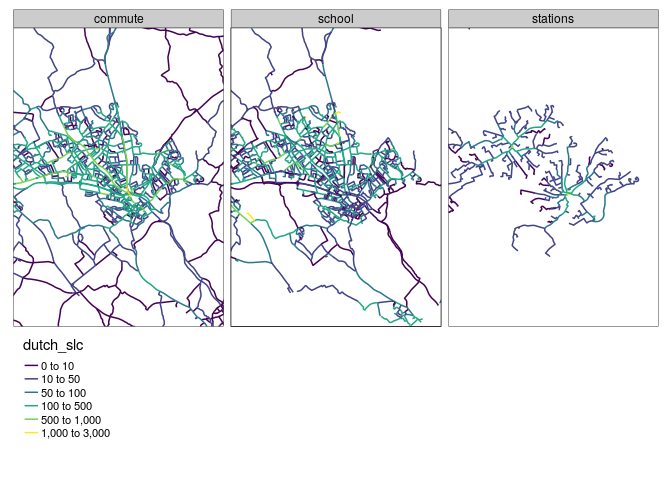
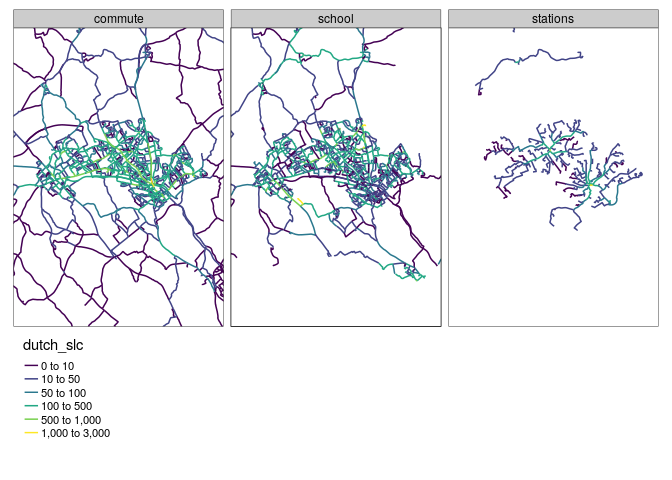
Complete report 3
Close #22 and #20

diff --git a/report3.md b/report3.md
@@ -1,13 +1,7 @@
 STARS Phase 3 Report: Evidence to support long-term network plans
 ================
-Joey Talbot & Robin Lovelace
+Robin Lovelace & Joey Talbot
 December 2020
-
-
-
-
-
-
 
 <!-- # Introduction -->
 
@@ -17,13 +11,35 @@ In Phase 2 of the project we developed a method to estimate cycling
 potential to stations based on commuting data. In this phase we have
 added two additional layers to this result:
 
--   Cycling potential for single stage travel to school journeys
+-   Cycling potential for single stage travel to school journeys,
+    documented in (Goodman et al. 2019)
 -   Cycling potential to work for single stage commutes
 
+Results from the longer-term ‘Go Dutch’ scenario from the Propensity to
+Cycle Tool, which represents a future in which people cycle as much as
+the Dutch to accounting for distance and hilliness (Lovelace et al.
+2017), are presented in this report, matching the long-term ambitions in
+Luton’s Local Cycling and Walking Infrastructure Plan. Go Dutch was also
+deemed an appropriate scenario because, as described in the emerging
+Luton Transport Strategy, 50% of journeys to work are less than 5
+kilometres but about 55% of these are by car.
+
 Summary statistics of the route network data, showing the relative
-importance of commute, school and travel to stations trips for potential
-(under the Go Dutch scenario) and current (for commute and school
-travel) is shown in Table <a href="#tab:sumtabthousands">1.1</a>.
+importance and potential of commute, school and travel-to-rail trips,
+are shown in Table <a href="#tab:sumtabthousands">1.1</a>. Note that the
+figures for cycling to rail stations only include commuter journeys to
+rail stations. Across the East of England, in 2018/2019 only 13% of
+trips were for the purpose of commuting according to the [National
+Travel
+Survey](https://www.gov.uk/government/statistical-data-sets/nts04-purpose-of-trips),
+thus total cycle-to-rail potential will be higher.
+
+The headline comparison between the ‘Go Dutch’ cycling potentials for
+travel to work, school and rail stations, and the 2011 data on travel to
+work and school, suggests that there is an opportunity to significantly
+increase the number of cycle trips. The ‘Go Dutch’ cycling potentials in
+the three Local Authorities are an order of magnitude higher than the
+existing (2011) numbers of cycle journeys.
 
 | lad\_name            | commute | school | stations | all | commute\_2011 | school\_2011 |
 |:---------------------|--------:|-------:|---------:|----:|--------------:|-------------:|
@@ -31,21 +47,34 @@ travel) is shown in Table <a href="#tab:sumtabthousands">1.1</a>.
 | Central Bedfordshire |     242 |    314 |       26 | 583 |            28 |            9 |
 | Luton                |     413 |    293 |       34 | 740 |            30 |            4 |
 
-Table 1.1: Relative importance if different trip purposes for cycling
-potential in local authorities in Bedfordshire. Cycling potential and
-current (2011 data, a proxy for current cycling levels) cycling levels
-is measured in thousand km cycled on the network for a typical
-work/school day (one way).
+Table 1.1: Relative importance of different trip purposes for cycling
+potential in local authorities in Bedfordshire. Cycling potential under
+a ‘Go Dutch’ scenario and current (2011 data, a proxy for current
+cycling levels) cycling levels are measured in thousand km cycled on the
+network for a typical work/school day (one way).
 
 The distinctive spatial distribution of each network in Luton is shown
-in Figure <a href="#fig:distribution">1.1</a>.[1]
+in Figure <a href="#fig:distribution">1.1</a>.[1] The focus of this
+report is on the Luton/Dunstable Urban Area because, whilst none of the
+three Councils have an adopted LCWIP, Luton has started the preparing
+one and formally consulted the Luton and Dunstable Cycle Forum and the
+Central Bedfordshire and Luton Joint Local Access Forum on a draft of
+the Plan in Spring 2020. In addition, many of the cycle routes to
+Luton’s three rail stations proposed in the Stage 2 report of this
+commission have been included in their Tranche 2 Active Travel Plan
+funding submission to the DfTand will be delivered during 2021. We can
+also see from the data in Table <a href="#tab:sumtabthousands">1.1</a>
+that the relative difference between 2011 cycling levels and ‘Go Dutch’
+cycling potentials is greater in Luton than in Bedford or Central
+Bedfordshire, thus Luton has the greatest potential for future increases
+in cycling uptake.
 
 <div class="figure">
 
-<img src="report3_files/figure-gfm/distribution-1.png" alt="Interactive facetted map of cycling potential for different trip purposes in Luton under the Go Dutch scenario."  />
+<img src="report3_files/figure-gfm/distribution-1.png" alt="Facetted map of cycling potential for different trip purposes in Luton under the Go Dutch scenario."  />
 <p class="caption">
-Figure 1.1: Interactive facetted map of cycling potential for different
-trip purposes in Luton under the Go Dutch scenario.
+Figure 1.1: Facetted map of cycling potential for different trip
+purposes in Luton under the Go Dutch scenario.
 </p>
 
 </div>
@@ -60,7 +89,7 @@ for interactive version of map).
 
 <div class="figure">
 
-<img src="https://user-images.githubusercontent.com/1825120/100157908-40677100-2ea3-11eb-8de7-445adfc3ecef.png" alt="Cycling potential in Luton: combined commute, school and stations layers."  />
+<img src="report3_files/figure-gfm/combined-1.png" alt="Cycling potential in Luton: combined commute, school and stations layers."  />
 <p class="caption">
 Figure 1.2: Cycling potential in Luton: combined commute, school and
 stations layers.
@@ -72,14 +101,14 @@ stations layers.
 
 The cycle network is illustrated in Figure
 <a href="#fig:luton-cycleways-2020">2.1</a> (see
-[here](https://rpubs.com/RobinLovelace/701619) for interactive version).
-Visual analysis of this data can identify potential gaps in provision.
-Four areas/corridors can be identified:
+rpubs.com/RobinLovelace/701619 for interactive version). Visual analysis
+of this data can identify potential gaps in provision. Four
+areas/corridors can be identified:
 
-1.  Hightown Road and the surround area
-2.  Just South and Southwest of the city centre (New Town and Farley
+1.  High Town Road and the surrounding area
+2.  Just South and Southwest of the town centre (New Town and Farley
     Hill)
-3.  Between Luton and Leagrave North of the busway route
+3.  Between Luton and Leagrave north of the busway route
 4.  The hospital and surrounding area
 
 Improving provision in these areas, and other areas with limited
@@ -87,42 +116,64 @@ cycling/walking access, may be necessary to increase active travel.
 Equally important is links *between* the zones, e.g. with the following
 links:
 
--   An arterial route up Hightown Road (in recent plans)
--   Improved to the hospital and East-West connections between
+-   An arterial route up High Town Road (in recent plans)
+-   Improved route to the hospital and East-West connections between
     Dunstable, Leagrave and surrounding areas
 -   Connections to the busway route: while the route is high quality, it
-    may not be well signposted and lacking clear cycle route onto it
-    from some areas, improving connectivity through signposting to
-    existing connections (perhaps with filtered permeability
-    interventions) and creating new connections could add value to this
-    existing route
+    may lack clear cycle links onto it from some areas. Improving
+    connectivity through signposting to existing connections (perhaps
+    with filtered permeability interventions) and creating new
+    connections could add value to this existing route
 -   Connections between all residential areas and trip attractors
-    including Luton city centre, the airport and schools
--   Crossings to at major barriers including the ring road
+    including Luton town centre, the airport and schools
+-   Crossings at major barriers including the ring road around Luton
+    town centre (as mentioned in relation to walking in LCWIP report)
 
 <div class="figure">
 
-<img src="figures/Selection_237.png" alt="The cycle network in Luton (data from 2019). Coloured lines are the routes on the official network. Thin black lines represent data on OpenStreetMap." width="1583" />
+<img src="figures/Selection_287.png" alt="The cycle network in Luton (data from 2019). Coloured lines are the routes on the official network. Thin black lines represent data on OpenStreetMap. See interactive version at rpubs.com/RobinLovelace/718384." width="1804" />
 <p class="caption">
 Figure 2.1: The cycle network in Luton (data from 2019). Coloured lines
 are the routes on the official network. Thin black lines represent data
-on OpenStreetMap.
+on OpenStreetMap. See interactive version at
+rpubs.com/RobinLovelace/718384.
 </p>
 
 </div>
 
-# 3 Analysis of counter data
+# 3 Comparison between potential and routes
+
+A quantitative comparison of the cycling potential levels shown in
+Section 1 and the cycleways shown in the previous section can help
+further identify missing links. Here we use the combined route network
+of travel to work, school and rail stations. Routes with &gt; 300
+cyclists on this combined route network and without existing cycle
+infrastructure are highlighted as ‘missing links’ in
+<a href="#fig:missing-map">3.1</a>.
+
+<div class="figure">
+
+<img src="report3_files/figure-gfm/missing-map-1.png" alt="Missing links, identified based on existing network and cycleways. Existing cycle infrastructure is shown in grey and missing links are shown in red."  />
+<p class="caption">
+Figure 3.1: Missing links, identified based on existing network and
+cycleways. Existing cycle infrastructure is shown in grey and missing
+links are shown in red.
+</p>
+
+</div>
+
+# 4 Analysis of counter data
 
 We analysed DfT’s manual traffic count data for the study region to
 trends in motor and cycling traffic. The locations of 118 DfT count
 points within Luton are shown in Figure
-<a href="#fig:counters-all">3.1</a>.[2]
+<a href="#fig:counters-all">4.1</a>.[2]
 
 <div class="figure">
 
 <img src="figures/counters-all.png" alt="All count points in Luton, with size proportional to the number of counts recorded in the 10 years from 2010 to 2019 (with the largest dots representing 10 counts on every year)." width="1123" />
 <p class="caption">
-Figure 3.1: All count points in Luton, with size proportional to the
+Figure 4.1: All count points in Luton, with size proportional to the
 number of counts recorded in the 10 years from 2010 to 2019 (with the
 largest dots representing 10 counts on every year).
 </p>
@@ -133,26 +184,27 @@ Of those counters, only 32 had cycle counts within the years 2010:2014
 and 2015:2019, allowing estimates of the trend in cycling in different
 parts of Luton to be calculated. The percentage change in cycling
 calculated from this analysis are presented for each count point for
-which there is data in Figure <a href="#fig:counters-cycle">3.2</a> (see
-[here](https://rpubs.com/RobinLovelace/701347) for interactive version).
-The results show a mixed picture, reflecting the low signal-to-noise
-ratio of DfT’s manual counts which can be affected by many factors
-including the weather on the days sampled each year (not adjusted).
+which there is data in Figure <a href="#fig:counters-cycle">4.2</a> (see
+rpubs.com/RobinLovelace/701347 for interactive version). The results
+show a mixed picture, reflecting the low signal-to-noise ratio of DfT’s
+manual counts which can be affected by many factors including the
+weather on the days sampled each year (not adjusted).
 
 <div class="figure">
 
-<img src="figures/counter-points-change-15.png" alt="Percentage change in cycling between the periods 2010:2014 and 2015:2019 at counter locations for which at least two readings are available in each period (reds represent decreased cycling, blues represent increased cycling). Size of dot is proportional to the total number of cycles counted at each sampling location." width="1123" />
+<img src="figures/counter-points-change-15.png" alt="Percentage change in cycling between the periods 2010:2014 and 2015:2019 at counter locations for which at least two readings are available in each period (reds represent decreased cycling, blues represent increased cycling). Size of dot is proportional to the total number of cycles counted at each sampling location, with a maximum value of 788." width="1123" />
 <p class="caption">
-Figure 3.2: Percentage change in cycling between the periods 2010:2014
+Figure 4.2: Percentage change in cycling between the periods 2010:2014
 and 2015:2019 at counter locations for which at least two readings are
 available in each period (reds represent decreased cycling, blues
 represent increased cycling). Size of dot is proportional to the total
-number of cycles counted at each sampling location.
+number of cycles counted at each sampling location, with a maximum value
+of 788.
 </p>
 
 </div>
 
-As shown in Figure <a href="#fig:pois">3.3</a>, even points that have
+As shown in Figure <a href="#fig:pois">4.3</a>, even points that have
 recorded substantial amounts of cycle traffic have not recorded data
 every year, as illustrated by a couple of individual counters. The
 counter on Old Bedford Road next to The Peoples Park (id 941693) has
@@ -164,7 +216,7 @@ seen a slight increase in cycling.
 
 <img src="report3_files/figure-gfm/pois-1.png" alt="Results from two individual counters showing the sparsity of DfT manual count data."  />
 <p class="caption">
-Figure 3.3: Results from two individual counters showing the sparsity of
+Figure 4.3: Results from two individual counters showing the sparsity of
 DfT manual count data.
 </p>
 
@@ -174,7 +226,7 @@ Individual count points cannot provide a reliable indication of trends
 but aggregated data, from all available count points in the area,
 provide an indication of trends. Results aggregated to the road on which
 readings were taken (with C and U representing unclassified roads) are
-shown in Figure <a href="#fig:roadcounts">3.4</a>. This suggests a
+shown in Figure <a href="#fig:roadcounts">4.4</a>. This suggests a
 slight decline in cycling in Luton since around 2015, at least on the
 sparse DfT cycle count point network.
 
@@ -182,24 +234,24 @@ sparse DfT cycle count point network.
 
 <img src="report3_files/figure-gfm/roadcounts-1.png" alt="Mean cycle counts per year aggregated at the road level. The thick blue line represents the overall trend."  />
 <p class="caption">
-Figure 3.4: Mean cycle counts per year aggregated at the road level. The
+Figure 4.4: Mean cycle counts per year aggregated at the road level. The
 thick blue line represents the overall trend.
 </p>
 
 </div>
 
 In contrast with the results shown in Figure
-<a href="#fig:roadcounts">3.4</a>, there is evidence of consistent
+<a href="#fig:roadcounts">4.4</a>, there is evidence of consistent
 growth in motor traffic in Luton and indeed most local authorities, with
 relative levels of traffic per KM road in Bedfordshire local authorities
 shown alongside trendlines for all local authorities in Figure
-<a href="#fig:trafficgrowth">3.5</a>.
+<a href="#fig:trafficgrowth">4.5</a>.
 
 <div class="figure">
 
 <img src="report3_files/figure-gfm/trafficgrowth-1.png" alt="Levels of motor traffic per km of road network per year for local authorities in Great Britain, with Bedfordshire local authorities highlighted."  />
 <p class="caption">
-Figure 3.5: Levels of motor traffic per km of road network per year for
+Figure 4.5: Levels of motor traffic per km of road network per year for
 local authorities in Great Britain, with Bedfordshire local authorities
 highlighted.
 </p>
@@ -207,7 +259,7 @@ highlighted.
 </div>
 
 Changes in motor traffic levels between 2011 and 2019 in the region are
-summarised in Table <a href="#tab:netlen">3.1</a>.
+summarised in Table <a href="#tab:netlen">4.1</a>.
 
 | local\_authority\_name | network\_length\_km | change\_2011 |
 |:-----------------------|--------------------:|-------------:|
@@ -215,16 +267,40 @@ summarised in Table <a href="#tab:netlen">3.1</a>.
 | Central Bedfordshire   |                1496 |        1.278 |
 | Luton                  |                 453 |        1.146 |
 
-Table 3.1: Network length and change in motor traffic between 2011 for
-Bedfordshire regions
+Table 4.1: Network length and change in motor traffic between 2011 and
+2019 for Bedfordshire regions
 
 <!-- Idea: could be a methods paper -->
 
-# 4 References
+# 5 References
 
-[1]  See
-[rpubs.com/RobinLovelace/695521](https://rpubs.com/RobinLovelace/695521)
-for interactive version.
+<div id="refs" class="references csl-bib-body hanging-indent">
 
-[2]  These count points can also be found at
-[roadtraffic.dft.gov.uk/](https://roadtraffic.dft.gov.uk/#15/51.8787/-0.4200/basemap-countpoints).
+<div id="ref-goodman_scenarios_2019" class="csl-entry">
+
+Goodman, Anna, Ilan Fridman Rojas, James Woodcock, Rachel Aldred,
+Nikolai Berkoff, Malcolm Morgan, Ali Abbas, and Robin Lovelace. 2019.
+“Scenarios of Cycling to School in England, and Associated Health and
+Carbon Impacts: Application of the ‘Propensity to Cycle Tool’.” *Journal
+of Transport & Health* 12 (March): 263–78.
+<https://doi.org/10.1016/j.jth.2019.01.008>.
+
+</div>
+
+<div id="ref-lovelace_propensity_2017" class="csl-entry">
+
+Lovelace, Robin, Anna Goodman, Rachel Aldred, Nikolai Berkoff, Ali
+Abbas, and James Woodcock. 2017. “The Propensity to Cycle Tool: An Open
+Source Online System for Sustainable Transport Planning.” *Journal of
+Transport and Land Use* 10 (1). <https://doi.org/10.5198/jtlu.2016.862>.
+
+</div>
+
+</div>
+
+[1]  See <!-- [ --> rpubs.com/RobinLovelace/695521
+<!-- ](https://rpubs.com/RobinLovelace/695521) --> for interactive
+version.
+
+[2]  These count points can also be found at roadtraffic.dft.gov.uk
+<!-- These count points can also be found at [roadtraffic.dft.gov.uk/](https://roadtraffic.dft.gov.uk/#15/51.8787/-0.4200/basemap-countpoints) -->
